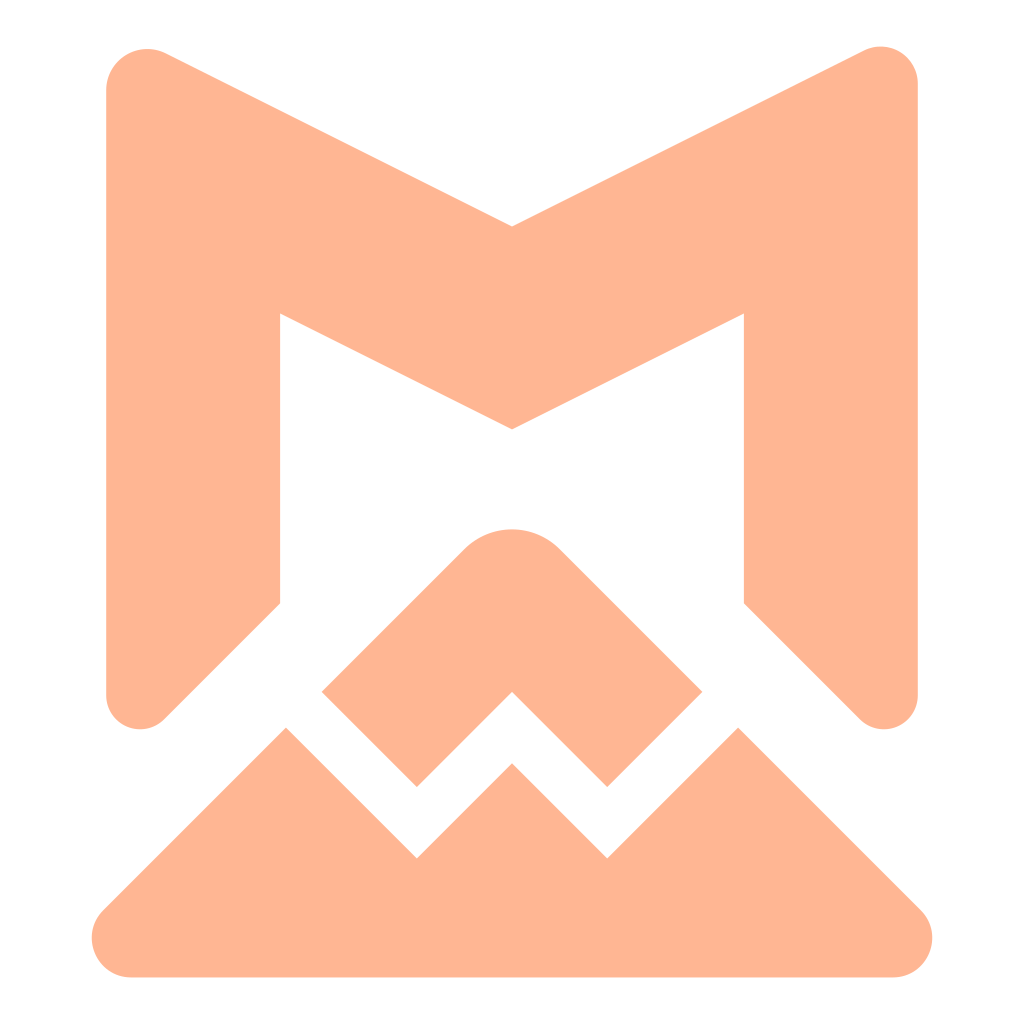
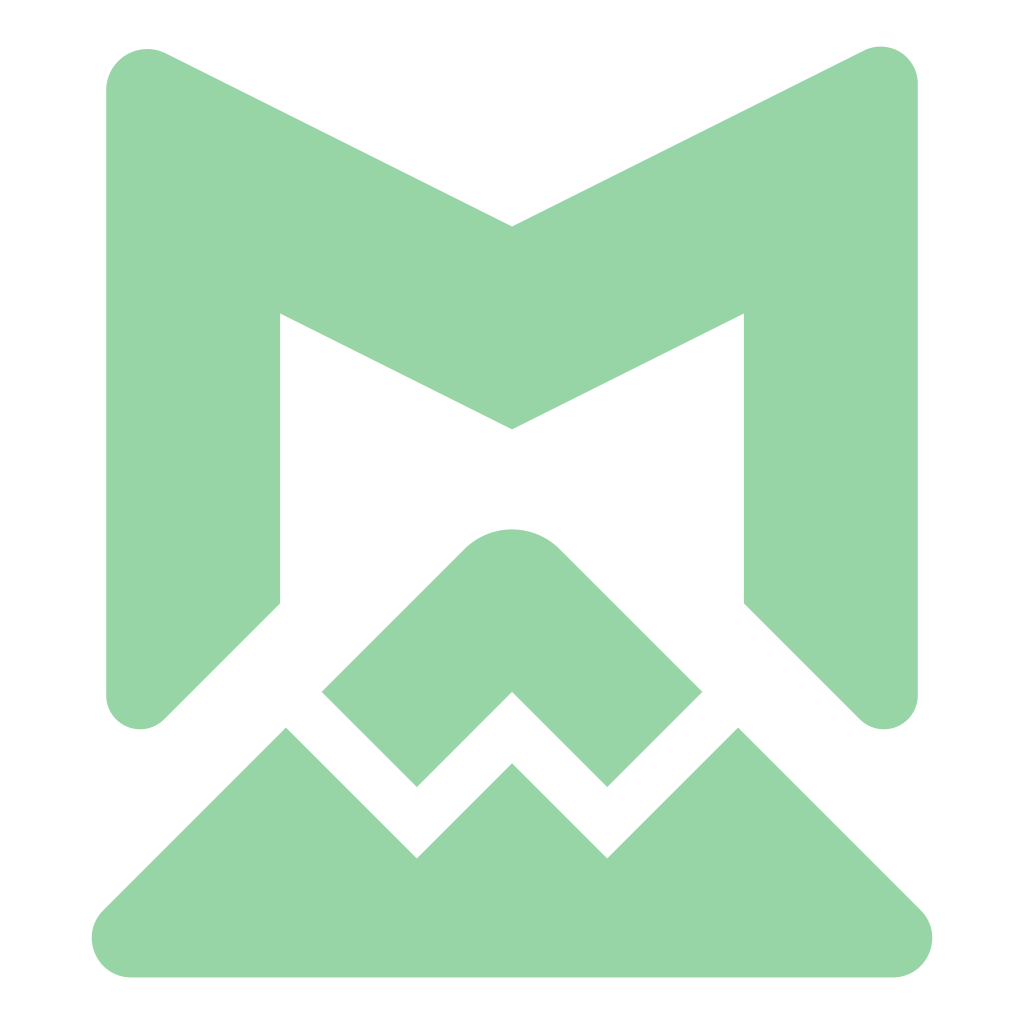
new color scheme

diff --git a/src/app.css b/src/app.css
@@ -5,43 +5,43 @@
   accent-color: rgb(var(--m3-scheme-primary));
 
   --m3-font: Inter, system-ui, sans-serif !important;
-  --m3-scheme-primary: 255 182 147;
-  --m3-scheme-on-primary: 86 32 0;
-  --m3-scheme-primary-container: 195 81 0;
-  --m3-scheme-on-primary-container: 255 255 255;
-  --m3-scheme-inverse-primary: 160 65 0;
-  --m3-scheme-secondary: 255 182 147;
-  --m3-scheme-on-secondary: 86 32 0;
-  --m3-scheme-secondary-container: 106 46 10;
-  --m3-scheme-on-secondary-container: 255 201 177;
-  --m3-scheme-tertiary: 226 216 85;
-  --m3-scheme-on-tertiary: 53 49 0;
-  --m3-scheme-tertiary-container: 183 174 46;
-  --m3-scheme-on-tertiary-container: 36 33 0;
+  --m3-scheme-primary: 151 213 166;
+  --m3-scheme-on-primary: 0 57 27;
+  --m3-scheme-primary-container: 19 81 45;
+  --m3-scheme-on-primary-container: 178 241 192;
+  --m3-scheme-inverse-primary: 47 106 67;
+  --m3-scheme-secondary: 182 204 184;
+  --m3-scheme-on-secondary: 34 53 39;
+  --m3-scheme-secondary-container: 56 75 60;
+  --m3-scheme-on-secondary-container: 210 232 212;
+  --m3-scheme-tertiary: 162 206 217;
+  --m3-scheme-on-tertiary: 1 54 63;
+  --m3-scheme-tertiary-container: 33 77 86;
+  --m3-scheme-on-tertiary-container: 190 234 246;
   --m3-scheme-error: 255 180 171;
   --m3-scheme-on-error: 105 0 5;
   --m3-scheme-error-container: 147 0 10;
   --m3-scheme-on-error-container: 255 218 214;
-  --m3-scheme-background: 28 17 11;
-  --m3-scheme-on-background: 246 221 211;
-  --m3-scheme-surface: 28 17 11;
-  --m3-scheme-on-surface: 246 221 211;
-  --m3-scheme-surface-variant: 89 66 55;
-  --m3-scheme-on-surface-variant: 225 192 177;
-  --m3-scheme-inverse-surface: 246 221 211;
-  --m3-scheme-inverse-on-surface: 60 45 38;
-  --m3-scheme-outline: 168 138 125;
-  --m3-scheme-outline-variant: 89 66 55;
+  --m3-scheme-background: 16 21 16;
+  --m3-scheme-on-background: 223 228 220;
+  --m3-scheme-surface: 16 21 16;
+  --m3-scheme-on-surface: 223 228 220;
+  --m3-scheme-surface-variant: 65 73 65;
+  --m3-scheme-on-surface-variant: 193 201 191;
+  --m3-scheme-inverse-surface: 223 228 220;
+  --m3-scheme-inverse-on-surface: 45 50 45;
+  --m3-scheme-outline: 139 147 138;
+  --m3-scheme-outline-variant: 65 73 65;
   --m3-scheme-shadow: 0 0 0;
   --m3-scheme-scrim: 0 0 0;
-  --m3-scheme-surface-dim: 28 17 11;
-  --m3-scheme-surface-bright: 69 54 47;
-  --m3-scheme-surface-container-lowest: 23 11 6;
-  --m3-scheme-surface-container-low: 37 25 19;
-  --m3-scheme-surface-container: 42 29 22;
-  --m3-scheme-surface-container-high: 53 39 32;
-  --m3-scheme-surface-container-highest: 65 49 43;
-  --m3-scheme-surface-tint: 255 182 147;
+  --m3-scheme-surface-dim: 16 21 16;
+  --m3-scheme-surface-bright: 53 58 53;
+  --m3-scheme-surface-container-lowest: 10 15 11;
+  --m3-scheme-surface-container-low: 24 29 24;
+  --m3-scheme-surface-container: 28 33 28;
+  --m3-scheme-surface-container-high: 38 43 38;
+  --m3-scheme-surface-container-highest: 49 54 49;
+  --m3-scheme-surface-tint: 151 213 166;
 }
 .m3-font-headline-small {
   font-size: 1.5rem;

diff --git a/src/app/WebUnsupported.svelte b/src/app/WebUnsupported.svelte
@@ -34,7 +34,7 @@
     align-items: center;
     text-align: center;
 
-    background-color: rgb(var(--m3-scheme-error) / 0.25);
+    background-color: rgb(var(--m3-scheme-surface-container));
     padding: 1.5rem;
     border-radius: 1.25rem;
   }
